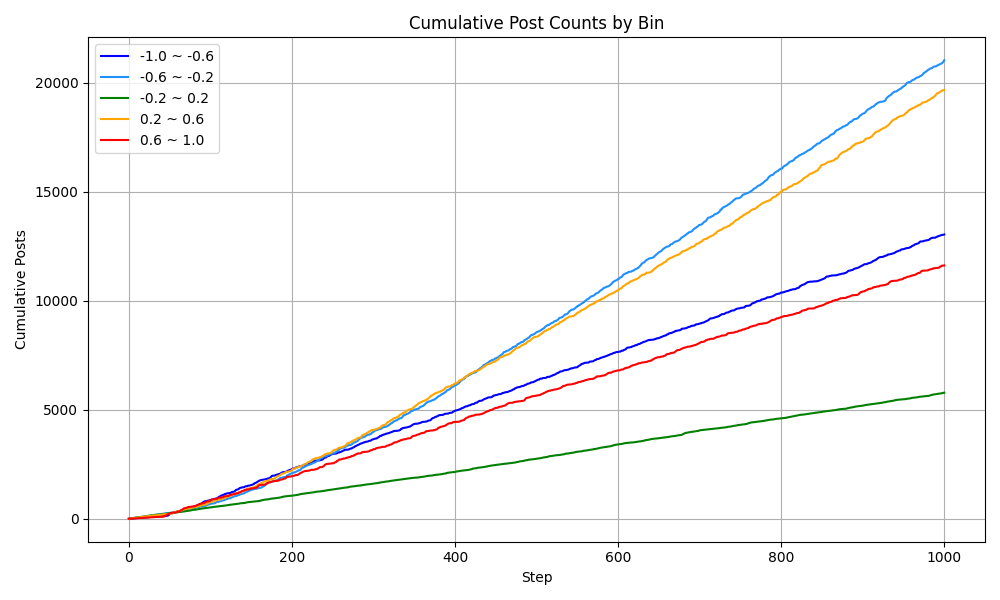
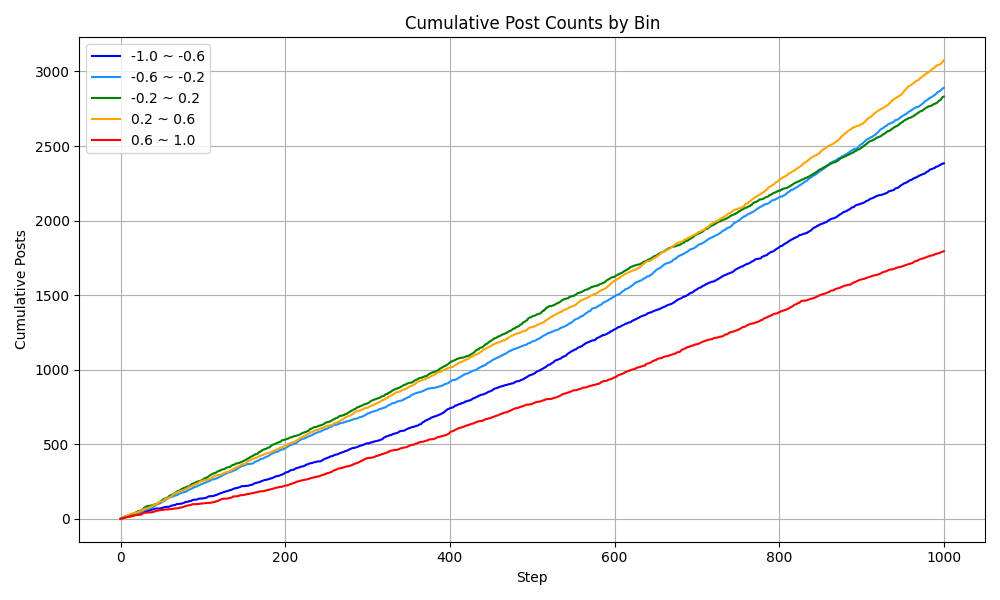
再現完了

diff --git a/src/writer/Writer.java b/src/writer/Writer.java
@@ -1,6 +1,6 @@
 package writer;
 
-import agent.Agent;
+import agent.*;
 import constants.Const;
 import java.io.FileWriter;
 import java.io.IOException;
@@ -50,22 +50,23 @@ public class Writer {
         this.unfollowActionNum = unfollowActionNum;
     }
 
-    public void setPostBins(Agent[] agentSet) {
-        for(int i = 0; i < postBins.length; i++){
+    public void clearPostBins() {
+        for (int i = 0; i < postBins.length; i++) {
             postBins[i] = 0;
-        }
-        for (Agent agentSet1 : agentSet) {
-            double shiftedOpinion = agentSet1.getOpinion() + 1; // [-1,1] → [0,2]
-            int binIndex = (int) Math.min(shiftedOpinion / postBinWidth, postBins.length - 1);
-            postBins[binIndex] += agentSet1.getToPost();
         }
     }
 
-    public void setOpinionBins(Agent[] agentSet){
-        for(int i = 0; i < opinionBins.length; i++){
+    public void setPostBins(Post post) {
+        double shiftedOpinion = post.getPostOpinion() + 1;
+        int binIndex = (int) Math.min(shiftedOpinion / postBinWidth, postBins.length - 1);
+        postBins[binIndex] += 1;
+    }
+
+    public void setOpinionBins(Agent[] agentSet) {
+        for (int i = 0; i < opinionBins.length; i++) {
             opinionBins[i] = 0;
         }
-        for(Agent agent : agentSet){
+        for (Agent agent : agentSet) {
             this.opinionBins[agent.getOpinionClass()] += 1;
         }
     }
@@ -117,24 +118,24 @@ public class Writer {
             // ヘッダーを書き込む
             StringBuilder header = new StringBuilder();
             header.append("step");
-            
+
             for (int i = 0; i < postBins.length; i++) {
                 header.append(",bin_").append(i);
             }
             header.append(",sumOfPosts");
             pw.println(header.toString());
-        
+
             // データ行を書き込む
             StringBuilder sb = new StringBuilder();
             sb.append(simulationStep); // ステップ番号
             int sumOfPosts = 0;
-        
+
             for (int i = 0; i < postBins.length; i++) {
                 sb.append(",").append(postBins[i]);
                 sumOfPosts += postBins[i];
             }
             sb.append(",").append(sumOfPosts);
-        
+
             pw.println(sb.toString());
         } catch (IOException e) {
             e.printStackTrace();
@@ -146,25 +147,24 @@ public class Writer {
             // ヘッダーを書き込む
             StringBuilder header = new StringBuilder();
             header.append("step");
-            
+
             for (int i = 0; i < opinionBins.length; i++) {
                 header.append(",bin_").append(i);
             }
             pw.println(header.toString());
-        
+
             // データ行を書き込む
             StringBuilder sb = new StringBuilder();
             sb.append(simulationStep); // ステップ番号
-        
+
             for (int i = 0; i < opinionBins.length; i++) {
                 sb.append(",").append(opinionBins[i]);
             }
-        
+
             pw.println(sb.toString());
         } catch (IOException e) {
             e.printStackTrace();
         }
-        
 
     }
 

diff --git a/src/dynamics/OpinionDynamics.java b/src/dynamics/OpinionDynamics.java
@@ -80,9 +80,10 @@ public class OpinionDynamics {
         for (int step = 1; step <= t; step++) {
             int followActionNum = 0;
             int unfollowActionNum = 0;
-            int rewireActionNum = 0;
             System.out.println("step = " + step);
 
+
+            writer.clearPostBins();
             writer.setSimulationStep(step);
             double[][] W = admin.getAdjacencyMatrix();
 
@@ -105,6 +106,7 @@ public class OpinionDynamics {
                 // 重複を削除 (フォローしているユーザがフォローしているユーザは被る可能性がある)
                 followList = new ArrayList<>(new HashSet<>(followList));
                 int followedId = agent.follow(followList, agentSet);
+                
 
                 // unfollow
                 int unfollowedId = agent.unfollow();
@@ -113,10 +115,11 @@ public class OpinionDynamics {
                 if(rand.nextDouble() < agent.getPostProb()){
                     Post post = agent.makePost(step);
                     for(Agent otherAgent : agentSet){
-                        if(otherAgent.getId() != agentId && W[agentId][otherAgent.getId()] > 0){
+                        if(otherAgent.getId() != agentId && W[agentId][otherAgent.getId()] > 0){ // follower全員のpostCashに追加
                             otherAgent.addToPostCash(post);
                         }
                     }
+                    writer.setPostBins(post);
                 }
 
                 agent.updateMyself();
@@ -124,10 +127,17 @@ public class OpinionDynamics {
                 agent.setFeed(admin.AdminFeedback(agentId, agentSet));
                 agent.resetPostCash();
                 ASChecker.assertionChecker(agentSet, network, agentNum, step);
+                if(followedId > 0){
+                    followActionNum++;
+                }
+                if(unfollowedId > 0){
+                    unfollowActionNum++;
+                }
             }
 
             if (step % 10 == 0) {
                 // export gexf
+                network.setAdjacencyMatrix(admin.getAdjacencyMatrix());
                 gephi.updateGraph(agentSet, network);
                 gephi.exportGraph(step, folerPath);
             }
@@ -135,8 +145,6 @@ public class OpinionDynamics {
             analyzer.computeVariance(agentSet);
             writer.setOpinionVar(analyzer.getOpinionVar());
             writer.setFollowUnfollowActionNum(followActionNum, unfollowActionNum);
-            writer.setRewireActionNum(rewireActionNum);
-            writer.setPostBins(agentSet);
             writer.setOpinionBins(agentSet);
             writer.write();
         }

diff --git a/src/agent/Agent.java b/src/agent/Agent.java
@@ -16,7 +16,7 @@ public class Agent {
     private final double followProbThres = Const.FOLLOW_RATE;
     private final double unfollowProbThres = Const.UNFOLLOW_RATE;
     private int toPost; // ある時刻において何件の投稿をするか
-    private int numOfPosts; // 一度に何件の投稿を閲覧できるか
+    private int numOfPosts; // 一度に何件の投稿を閲覧するか
     private final double rewireProbThres = Const.REWIRE_RATE;
     private int opinionClass;
     private PostCash postCash;
@@ -35,7 +35,7 @@ public class Agent {
         this.numOfPosts = rand.nextInt(90) + 10;
         setOpinionClass();
         this.postCash = new PostCash(numOfPosts);
-        this.postProb = 0.1;
+        this.postProb = Const.INITIAL_POST_PROB;
         this.feed = new int[NUM_OF_AGENTS];
     }
 
@@ -116,13 +116,11 @@ public class Agent {
     // other methods
     public void resetPostCash() {
         this.postCash.reset();
+        this.toPost = 0;
     }
 
     public void updateMyself() {
-        if (rand.nextDouble() > 0.1) {
-            return;
-        }
-
+        // feedには誰の投稿を何件閲覧するかが書かれている
         int[] tempFeed = this.feed.clone();
         double temp = 0.0;
 
@@ -163,6 +161,9 @@ public class Agent {
 
     public int like() {
         int attemps = 0;
+        if (this.postCash.getSize() <= 0.0) {
+            return -1;
+        }
         while (attemps < 100) {
             Post likedPost = this.postCash.getAllPosts()[rand.nextInt(postCash.getSize())];
             if (Math.abs(likedPost.getPostOpinion() - this.opinion) < this.bc) {
@@ -193,6 +194,9 @@ public class Agent {
     // 閲覧した投稿の中でBC以上の意見の差があったらunfollowする
     public int unfollow() {
         int attemps = 0;
+        if (this.postCash.getSize() <= 0.0) {
+            return -1;
+        }
         while (attemps < 100) {
             Post unfollowPost = this.postCash.getAllPosts()[rand.nextInt(postCash.getSize())];
             if (Math.abs(unfollowPost.getPostOpinion() - this.opinion) > this.bc) {
@@ -207,6 +211,7 @@ public class Agent {
 
     public Post makePost(int step){
         Post post = new Post(this.id, this.opinion, step);
+        this.toPost = 1;
         return post;
     }
 

diff --git a/src/optim/AdminOptim.java b/src/optim/AdminOptim.java
@@ -12,7 +12,7 @@ public class AdminOptim {
         this.W = W;
     }
 
-    public double[][] getAdjacencyMatrix(){
+    public double[][] getAdjacencyMatrix() {
         return this.W;
     }
 
@@ -21,12 +21,21 @@ public class AdminOptim {
     }
 
     public void updateAdjacencyMatrix(int userId, int likedId, int followedId, int unfollowedId) {
-        this.W[userId][likedId] += Const.LIKE_INCREASE_WEIGHT;
-        this.W[userId][followedId] = Const.FOLLOW_INCREASE_WEIGHT;
-        this.W[userId][unfollowedId] = 0.0;
+        if (likedId > 0) {
+            this.W[userId][likedId] += Const.LIKE_INCREASE_WEIGHT;
+        }
+        if (followedId > 0) {
+            this.W[userId][followedId] = Const.FOLLOW_INCREASE_WEIGHT;
+        }
+        if (unfollowedId > 0) {
+            this.W[userId][unfollowedId] = 0.0;
+        }
 
         double rowSum = 0.0;
         for (int j = 0; j < n; j++) {
+            if(this.W[userId][j] > 0.5){
+                this.W[userId][j] = 0.5;
+            }
             rowSum += this.W[userId][j];
         }
         if (rowSum > 0.0) {

diff --git a/src/constants/Const.java b/src/constants/Const.java
@@ -33,6 +33,9 @@ public class Const {
     // BC 0.8　は全体分極は起こる
     // Bc 1.0, tol 0.6 
 
+    // agent parameter
+    public static final double INITIAL_POST_PROB = 0.5;
+
     // input data parameter
     public static final String EDGES_FILE_PATH = "Twitter/edgesTwitter.txt";
     public static final String OPINION_FILE_PATH = "Twitter/Twitter_opinion.txt";
